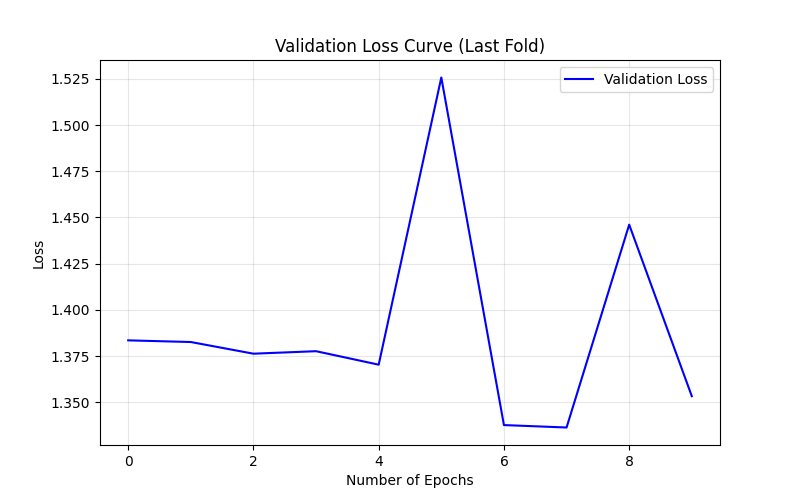
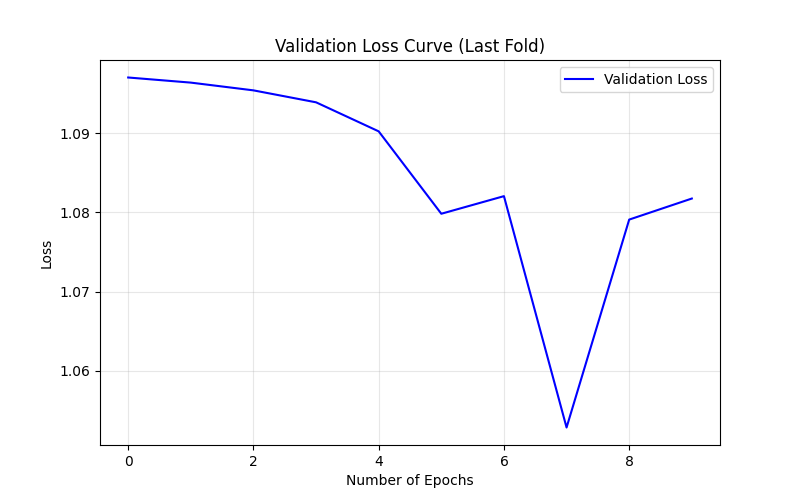
64 filters

diff --git a/src/cnn.py b/src/cnn.py
@@ -261,19 +261,19 @@ def build_tutorial_cnn(input_shape, num_classes):
     """
     model = Sequential([
         # First convolutional block: Extract basic features
-        Conv2D(32, (3, 3), activation='relu', input_shape=input_shape),
+        Conv2D(64, (3, 3), activation='relu', input_shape=input_shape),
         MaxPool2D((2, 2)),
         
         # Second convolutional block: Extract more complex features
-        Conv2D(32, (3, 3), activation='relu'),
+        Conv2D(64, (3, 3), activation='relu'),
         MaxPool2D((2, 2)),
         
         # Third convolutional block: Extract high-level features
-        Conv2D(32, (3, 3), activation='relu'),
+        Conv2D(64, (3, 3), activation='relu'),
         MaxPool2D((2, 2)),
         
         # Fourth convolutional block: Final feature extraction
-        Conv2D(32, (3, 3), activation='relu'),
+        Conv2D(64, (3, 3), activation='relu'),
         MaxPool2D((2, 2)),
         
         # Classification head
